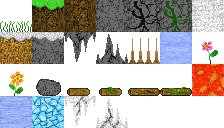
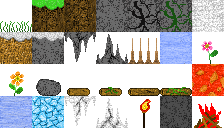
worked on lighting

Changed region(s): [[0.625, 0.75, 1.0, 1.0]]

diff --git a/states/main_state.py b/states/main_state.py
@@ -9,7 +9,7 @@ from entity.entity import Entity
 from gui.hud.cooldown_bar import CoolDownBar
 from gui.hud.death_text import DeathText
 from entity.populate import populate, get_ground
-from states.pause_state import PauseMenu
+from gui.menu.pause_menu import PauseMenu
 from entity.teleporter import Teleporter
 
 
@@ -26,7 +26,7 @@ class MainState:
         }
         self.tile_map = generate.generate_easy_over_world()
         self.entities = [self.player] + populate(get_ground(self.tile_map), (20, 80), 5, 0, 1)
-        self._teleporter = Teleporter(TILE_SIZE * 86, 5 * TILE_SIZE, 'CAVE')
+        self._teleporter = Teleporter(TILE_SIZE * 83, 0, 2, 4, 'CAVE')
         self.window = Window(screen, WIDTH, HEIGHT)
         self._cool_down_bar = CoolDownBar()
         self.background = AnimatedSprite('background.png', Point2D(200, 96), 35, speed=0.25, reverse=True)
@@ -35,6 +35,7 @@ class MainState:
         self.death_text = None
         self._pause_menu = None
         self._paused = False
+        self._gloom = False
 
     def update(self):
         if not self.death_text and not self._paused:
@@ -84,6 +85,8 @@ class MainState:
         elif self.player.fading:
             self.window.draw_overlay(self._fade_vignette)
             self.window.draw_overlay((78, 0, 107), 10)
+        elif self._teleporter.check_collision(self.player.position):
+            self._teleport(self._teleporter.destination)
 
         self._cool_down_bar.update(self.player)
 
@@ -91,6 +94,9 @@ class MainState:
 
         # trim dead entities
         self.entities = [x for x in self.entities if x.health > 0 or isinstance(x, Player)]
+
+        if self._gloom:
+            pass
 
         return self.player_alive
 
@@ -106,8 +112,8 @@ class MainState:
         if not self._pause_menu:
             self._pause_menu = PauseMenu()
         x, y = pygame.mouse.get_pos()
-        self._pause_menu.set_selected_from_position(x, y, pygame.mouse.get_pressed()[0] == 1)
-        self.window = self._pause_menu.draw_menu(self.window)
+        self._pause_menu.update(Point2D(x, y), pygame.mouse.get_pressed()[0] == 1)
+        self.window.draw_menu(self._pause_menu)
         if self._pause_menu.state == 1:
             self._paused = False
         elif self._pause_menu.state == 2:
@@ -125,4 +131,4 @@ class MainState:
             self.player_alive = False
 
     def _teleport(self, destination):
-        pass
+        print(destination)

diff --git a/render/lighting.py b/render/lighting.py
@@ -1,0 +1,40 @@
+import pygame
+from util import WIDTH, HEIGHT
+
+
+circle_filter = pygame.image.load('assets/light.png')
+
+
+class Light:
+    def __init__(self, x, y, width, height, color=None, spread=1):
+        self.x, self.y = x, y
+        self.width, self.height = width, height
+        self.color = color
+        self.spread = spread
+
+    def draw_light(self, gloom, offset):
+        for px in range(self.width):
+            for py in range(self.height):
+                if self.color:
+                    gloom.blit(_colorize(circle_filter, self.color), (self.x + offset[0] + px, self.y + offset[1] + py))
+                else:
+                    gloom.blit(circle_filter, (self.x + offset[0] + px, self.y + offset[1] + py))
+        return gloom
+
+
+def _colorize(surface, color):
+    w, h = surface.get_size()
+    for x in range(w):
+        for y in range(h):
+            a = surface.get_at((x, y))[3]
+            surface.set_at((x, y), pygame.Color((*color, a)))
+    return surface
+
+
+def render_lights(window, lights, offset):
+    gloom = pygame.Surface((WIDTH, HEIGHT))
+    gloom.fill(pygame.Color('Grey'))
+    for light in lights:
+        gloom = light.draw_light(gloom, offset)
+    window.blit(gloom, (0, 0), special_flags=pygame.BLEND_RGBA_SUB)
+    return window

diff --git a/map/generate.py b/map/generate.py
@@ -67,15 +67,16 @@ def _generate_cave_entrance():
     for i in range(0, 15):
         if i < 5:
             floor = base - (i - 1 if i > 3 else i)
+            floor_stone = TileSet.STONE if i < 3 else TileSet.GLOOM_STONE
             tile_map.append(
-                Tile((80 + i) * TILE_SIZE, 0, *TileSet.STONE, repeat_y=floor))
+                Tile((80 + i) * TILE_SIZE, 0, *floor_stone, repeat_y=floor, collidable=i < 3))
             if i > 0:
                 cave_height = randint(5, 6)
                 tile_map.extend([
                     Tile((80 + i) * TILE_SIZE, (floor + cave_height) * TILE_SIZE, *TileSet.STONE, repeat_y=i * 2),
                     Tile((80 + i) * TILE_SIZE, ((floor + cave_height) + i * 2) * TILE_SIZE, *TileSet.SNOW_STONE)
                 ])
-            if randint(0, 2) == 0:
+            if randint(0, 2) == 0 and i < 3:
                 tile_map.append(Tile((80 + i) * TILE_SIZE, floor * TILE_SIZE, *TileSet.STALAGMITE, collidable=False))
         else:
             tile_map.extend([

diff --git a/entity/teleporter.py b/entity/teleporter.py
@@ -3,12 +3,13 @@ from util import Point2D, TILE_SIZE
 
 
 class Teleporter(Entity):
-    def __init__(self, x, y, destination):
+    def __init__(self, x, y, width, height, destination):
         super().__init__(Point2D(x, y), 0, False, None, 1, 0)
+        self.width, self.height = width, height
         self.destination = destination
 
     def check_collision(self, position):
-        if self.position.x <= position.x <= self.position.x + TILE_SIZE:
-            if self.position.y <= position.y <= self.position.y + TILE_SIZE:
+        if self.position.x <= position.x <= self.position.x + TILE_SIZE * self.width:
+            if self.position.y <= position.y <= self.position.y + TILE_SIZE * self.height:
                 return True
         return False

diff --git a/map/tile.py b/map/tile.py
@@ -46,4 +46,5 @@ class TileSet:
     ICE_ROCK = (1, 3)
     ICE_STALACTITE = (2, 3)
     ICE_STALAGMITE = (3, 3)
-
+    TORCH = (4, 3)
+    GLOOM_STONE = (5, 3)

diff --git a/gui/menu/menu.py b/gui/menu/menu.py
@@ -45,3 +45,4 @@ class Menu:
                     button.click()
             else:
                 button.selected = False
+
